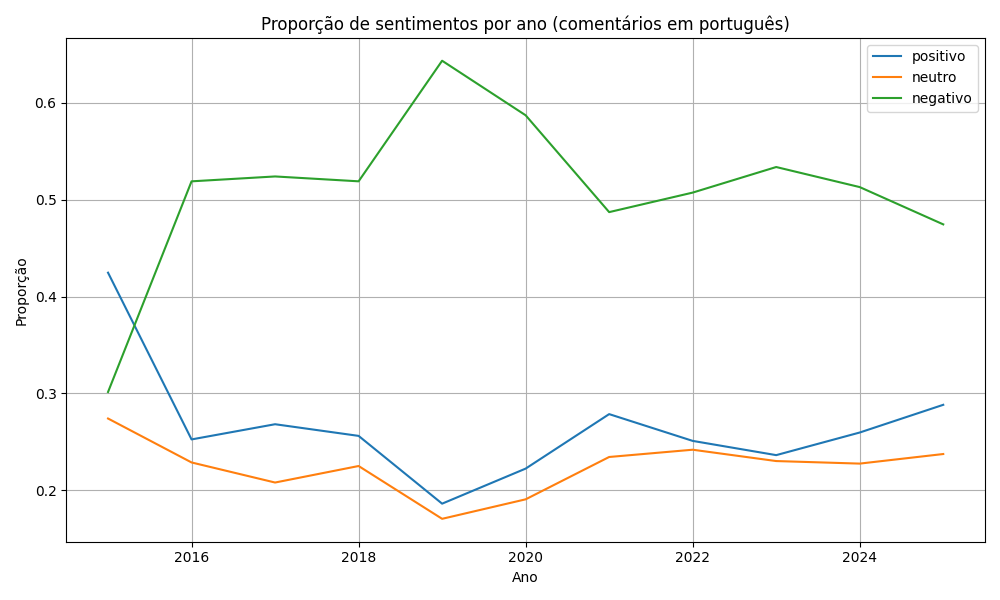
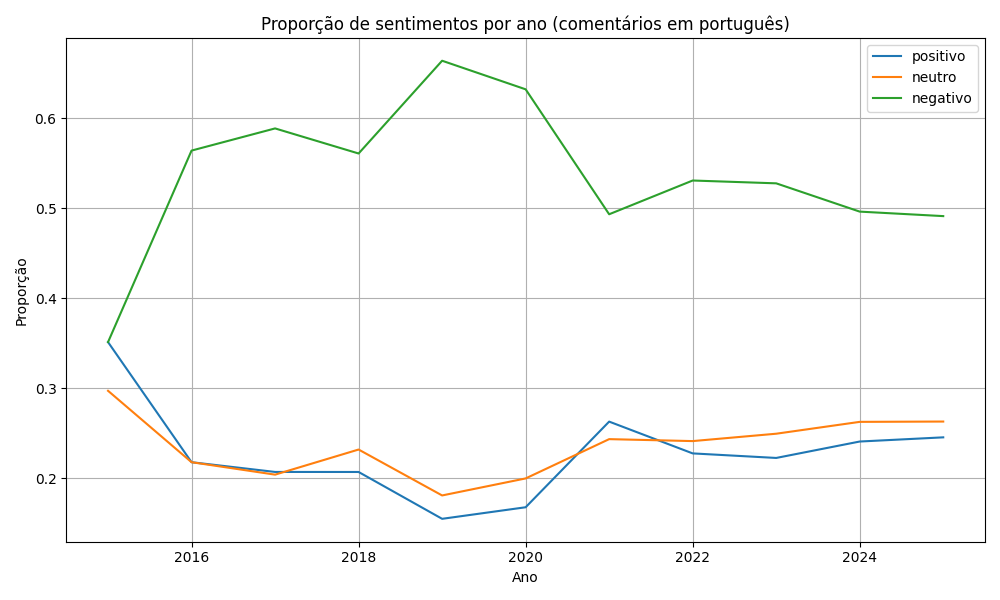
primeiras 2 versões - pergunta 1

diff --git a/pergunta 1/análise temporal de sentimento agregado/versao 2/sentiment_analysis.py b/pergunta 1/análise temporal de sentimento agregado/versao 2/sentiment_analysis.py
@@ -1,0 +1,123 @@
+import json
+import pandas as pd
+import numpy as np
+from sklearn.linear_model import LogisticRegression
+from sklearn.model_selection import train_test_split
+from sklearn.metrics import classification_report
+from transformers import AutoTokenizer, AutoModel
+from langdetect import detect
+import torch
+from tqdm import tqdm
+import matplotlib.pyplot as plt
+from collections import defaultdict
+import datetime
+
+# === Configurações ===
+bert_model = "neuralmind/bert-base-portuguese-cased"
+anotados_csv = "600_comentarios_classificados.csv"
+entrada_json = "comentarios_relevantes.json"
+device = torch.device("cuda" if torch.cuda.is_available() else "cpu")
+
+# === 1. Funções auxiliares ===
+
+def detecta_pt(texto):
+    try:
+        return detect(texto) == "pt"
+    except:
+        return False
+
+def bert_embed(texto):
+    tokens = tokenizer(texto, return_tensors='pt', truncation=True, padding=True, max_length=128).to(device)
+    with torch.no_grad():
+        output = model(**tokens)
+    return output.last_hidden_state[:, 0, :].squeeze().cpu().numpy()  # [CLS]
+
+def data_para_ano(data):
+    try:
+        return datetime.datetime.fromisoformat(data.replace("Z", "")).year
+    except:
+        return None
+
+# === 2. Carregar modelo BERTimbau ===
+print("Carregando BERTimbau...")
+tokenizer = AutoTokenizer.from_pretrained(bert_model)
+model = AutoModel.from_pretrained(bert_model).to(device)
+model.eval()
+
+# === 3. Carregar dados anotados ===
+print("Lendo comentários anotados...")
+df = pd.read_csv(anotados_csv).dropna(subset=["texto", "sentimento"])
+df = df[df["texto"].apply(detecta_pt)].reset_index(drop=True)
+
+# === 4. Gerar embeddings ===
+print("Gerando embeddings dos comentários anotados...")
+embeddings = []
+for texto in tqdm(df["texto"].tolist()):
+    embeddings.append(bert_embed(texto))
+X = np.array(embeddings)
+y = df["sentimento"].values
+
+# === 5. Treinar classificador ===
+print("Treinando classificador...")
+X_train, X_test, y_train, y_test = train_test_split(X, y, test_size=0.2, random_state=42)
+clf = LogisticRegression(max_iter=1000)
+clf.fit(X_train, y_train)
+
+# Avaliar
+print("\nRelatório de classificação no conjunto de teste:")
+print(classification_report(y_test, clf.predict(X_test)))
+
+# === 6. Classificar base completa com ponderação por likes ===
+print("\nClassificando comentários relevantes...")
+with open(entrada_json, "r", encoding="utf-8") as f:
+    comentarios = json.load(f)
+
+resultados = defaultdict(list)
+
+for comentario in tqdm(comentarios):
+    texto = comentario.get("texto", "").strip()
+    data = comentario.get("data")
+    likes = comentario.get("likes", 0)
+
+    if not texto or not data:
+        continue
+    if not detecta_pt(texto):
+        continue
+
+    ano = data_para_ano(data)
+    if not ano:
+        continue
+
+    embedding = bert_embed(texto)
+    classe = clf.predict([embedding])[0]
+
+    peso = likes + 1  # Mínimo de 1 voto por comentário
+    resultados[ano].extend([classe] * peso)
+
+# === 7. Agregar e plotar ===
+print("Gerando gráfico por ano...")
+anos = sorted(resultados.keys())
+contagens = {classe: [] for classe in ["positivo", "neutro", "negativo"]}
+
+for ano in anos:
+    total = len(resultados[ano])
+    for classe in contagens:
+        qtd = resultados[ano].count(classe)
+        contagens[classe].append(qtd / total if total > 0 else 0)
+
+# Plot
+plt.figure(figsize=(10, 6))
+for classe, valores in contagens.items():
+    plt.plot(anos, valores, label=classe)
+plt.title("Proporção de sentimentos por ano")
+plt.xlabel("Ano")
+plt.ylabel("Proporção")
+plt.legend()
+plt.grid(True)
+plt.tight_layout()
+
+# Garante que todos os anos aparecem no eixo x
+plt.xticks(anos, rotation=45)
+
+plt.savefig("grafico_sentimentos_por_ano_ponderado.png")
+plt.show()
